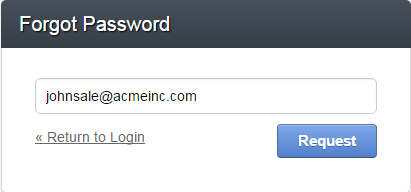
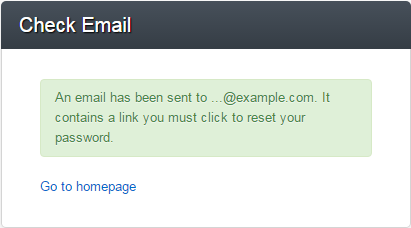
BB-14229: Forgot Password Frontend Message Format (#21578)

diff --git a/crm/user_guide/access_oro/access_oro_password_forgot.rst b/crm/user_guide/access_oro/access_oro_password_forgot.rst
@@ -18,19 +18,13 @@ If you forgot your password, perform the following steps:
       :width: 40%
       :alt: Click request
 
-4. If the credentials you have entered in the previous step are not valid, you will see the corresponding notification:
- 
-   .. image:: ../img/access_oro/login_forgot4.png
-      :width: 40%
-      :alt: There is no active user with username or email address
+4. The password reset link is sent to your email address:
 
-5. If the credentials are valid, the password reset link is sent to your email address:
-
-   .. image:: ../img/access_oro/login_forgot5.png
+   .. image:: ../img/access_oro/login_forgot3.png
       :width: 40%
       :alt: The password reset link is sent to your email address
 
-6. Follow the link and instructions in your email to change your password.
+5. Follow the link and instructions in your email to change your password.
 
 .. warning:: You can request password reset only once a day.
 

diff --git a/commerce/getting_started/access_oro/access_oro_password_forgot.rst b/commerce/getting_started/access_oro/access_oro_password_forgot.rst
@@ -16,17 +16,12 @@ If you forgot your password, perform the following steps:
    .. image:: /user_guide/img/access_oro/login_forgot2.png
       :width: 40%
 
-4. If the credentials you have entered in the previous step are not valid, you will see the corresponding notification:
- 
-   .. image:: /user_guide/img/access_oro/login_forgot4.png
+4. The password reset link is sent to your email address:
+
+   .. image:: /user_guide/img/access_oro/login_forgot3.png
       :width: 40%
 
-5. If the credentials are valid, the password reset link is sent to your email address:
-
-   .. image:: /user_guide/img/access_oro/login_forgot5.png
-      :width: 40%
-
-6. Follow the link and instructions in your email to change your password.
+5. Follow the link and instructions in your email to change your password.
 
 .. warning:: You can request password reset only once a day.
 
